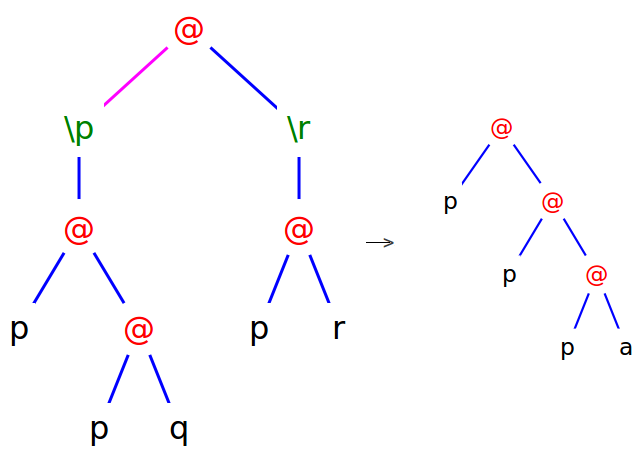
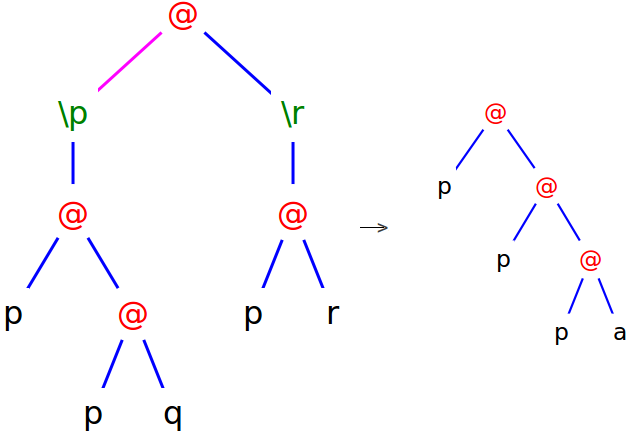
adicionado d, imagem e, imagens redimensionadas

diff --git a/teoria/simulador/simulador.tex b/teoria/simulador/simulador.tex
@@ -43,7 +43,6 @@ Graduandos: \\ Paulo Renato Lanzarin, Ricardo Gabriel Herdt e \\
 	Wladimir Leuschner \\[1.5cm]
 
 
-
 % Title
 \LARGE {\bfseries Simulação de exemplos de Cálculo Lambda \\[1.0cm]
 }}
@@ -68,7 +67,7 @@ $\mathbf{((\lambda p.p\ (p\ q))\ (\lambda r.(p\ r)))}$
 
 \begin{figure}[h]
   \centering
-  \includegraphics[scale=0.5]{8-10f.png}
+  \includegraphics[scale=0.4]{8-10f.png}
   \caption{Exemplo 8.10f antes e após a substituição}
 \end{figure}
 
@@ -118,12 +117,28 @@ $\mathbf{((\lambda p.p\ (p\ q))\ (\lambda r.(p\ r)))}$
 
 \begin{figure}[h]
   \centering
-  \includegraphics[scale=0.5]{8-11c_2.png}
+  \includegraphics[scale=0.35]{8-11c_2.png}
   \caption{Exemplo 8.11c após ser reduzido}
 \end{figure}
 
 
 \FloatBarrier
+
+\textbf{d)}
+
+\begin{align*}
+&\mathbf{(\lambda x.\lambda y.x - y) (\lambda z.z / 2) \ \rhd} \\
+&\mathbf{(\lambda y.x - y) [x \leftarrow \lambda z.z / 2] = \lambda y.(\lambda z.z /2) - y}
+\end{align*}
+
+\begin{figure}[h]
+  \centering
+  \includegraphics[scale=0.3]{8-11d_1.png}
+  \caption{Exemplo 8.11d}
+\end{figure}
+
+\FloatBarrier
+
 \textbf{e)}
 
 \begin{align*}
@@ -131,6 +146,14 @@ $\mathbf{((\lambda p.p\ (p\ q))\ (\lambda r.(p\ r)))}$
 &\mathbf{x\ x\ [x \leftarrow \lambda y.y] = (\lambda y.y)\ (\lambda y.y)\ \rhd} \\
 &\mathbf{y [y \leftarrow \lambda y.y] = \lambda y.y}
 \end{align*}
+
+\begin{figure}[h]
+  \centering
+  \includegraphics[scale=0.3]{8-11e.png}
+  \caption{Exemplo 8.11e antes e após a substituição}
+\end{figure}
+
+\FloatBarrier
 
 \textbf{f)}
 \begin{align*}
@@ -141,7 +164,7 @@ $\mathbf{((\lambda p.p\ (p\ q))\ (\lambda r.(p\ r)))}$
 
 \begin{figure}[h]
   \centering
-  \includegraphics[scale=0.5]{8-11f.png}
+  \includegraphics[scale=0.4]{8-11f.png}
   \caption{Exemplo 8.11f antes e após ser reduzido}
 \end{figure}
 
@@ -156,7 +179,7 @@ $\mathbf{((\lambda p.p\ (p\ q))\ (\lambda r.(p\ r)))}$
 
 \begin{figure}[h]
   \centering
-  \includegraphics[scale=0.5]{8-11g.png}
+  \includegraphics[scale=0.35]{8-11g.png}
   \caption{Exemplo 8.11g antes e após ser reduzido}
 \end{figure}
 
@@ -170,14 +193,8 @@ $\mathbf{((\lambda p.p\ (p\ q))\ (\lambda r.(p\ r)))}$
 
 \begin{figure}[h]
   \centering
-  \includegraphics[scale=0.45]{8-11h_1.png}
-  \caption{Exemplo 8.11h antes de ser reduzido}
-\end{figure}
-
-\begin{figure}[h]
-  \centering
-  \includegraphics[scale=0.45]{8-11h_2.png}
-  \caption{Exemplo 8.11h após  ser reduzido}
+  \includegraphics[scale=0.5]{8-11h_1.png}
+  \caption{Exemplo 8.11h antes e após ser reduzido}
 \end{figure}
 
 \FloatBarrier
